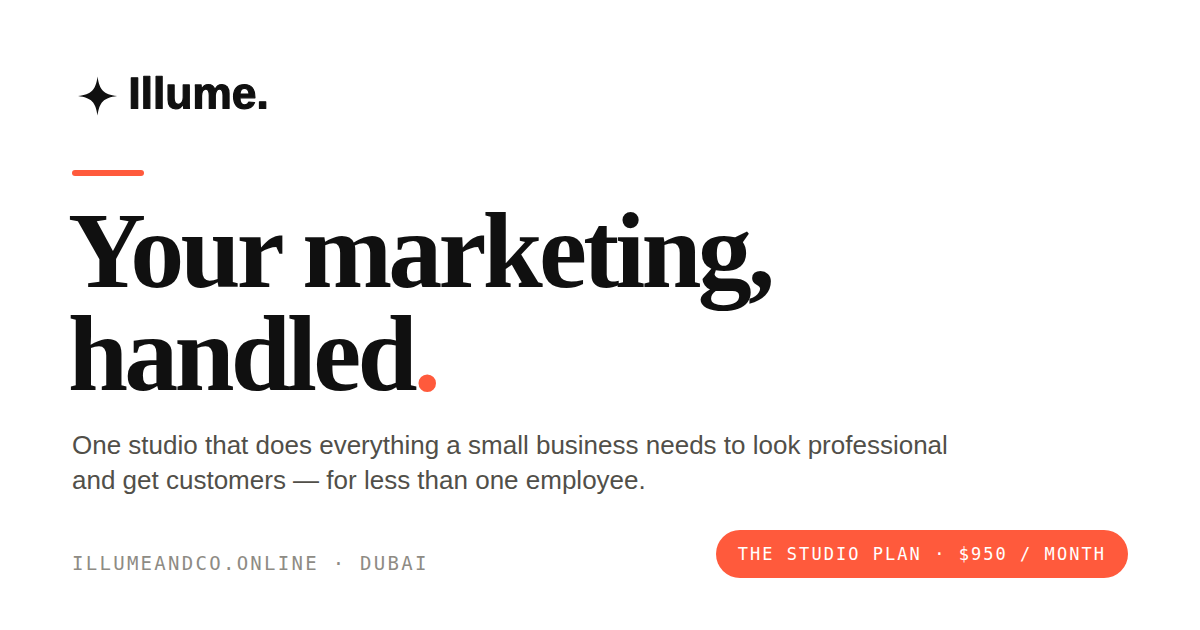
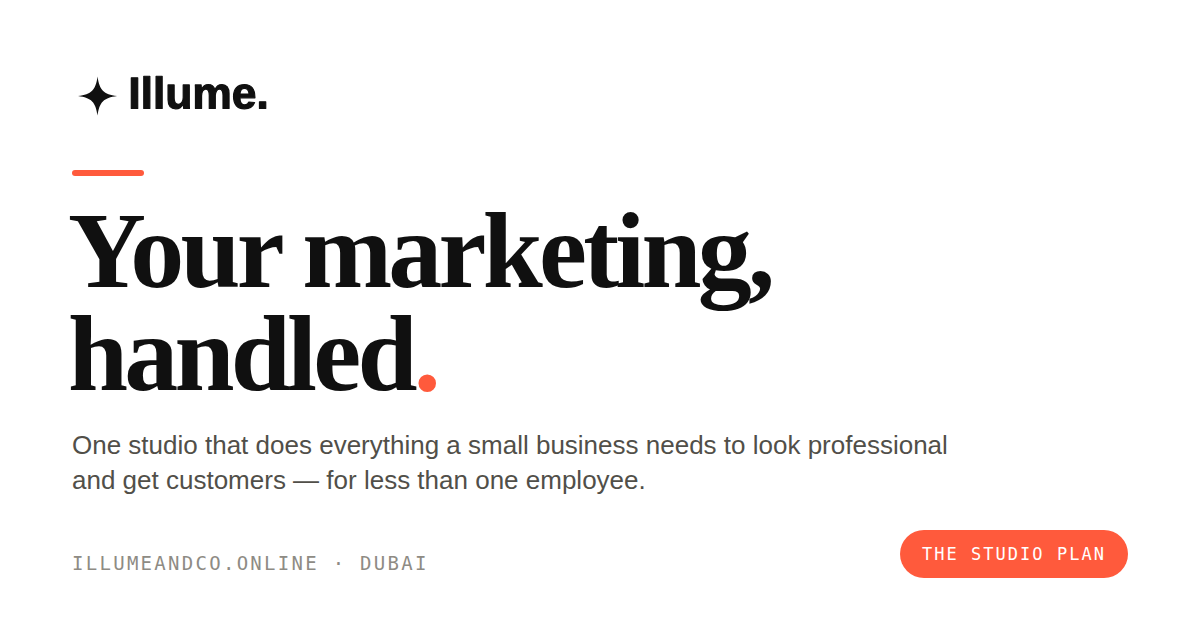
Reframe around the product they deliver; email and Instagram only
Copy on every page now sells studio-quality content built around the
product or service a business delivers, with the phone photos kept as the
proof (transformation pairs and slider) rather than as the promise.

The price appears only where it belongs: the Studio Plan card, the
comparison, and the price FAQ. Removed from the hero, the start page card,
the portfolio CTA, the founder text, and every meta and share description.
Open Graph image regenerated without the price.

Contact is email and Instagram only. Floating WhatsApp button, wa.me links
and the phone number removed from every page and the README.

Claude-Session: https://claude.ai/code/session_01R2BKuQRPJkqNdeGcCEWng2

Changed region(s): [[0.5858, 0.8143, 0.925, 0.9349]]

diff --git a/index.html b/index.html
@@ -5,12 +5,12 @@
 <meta name="viewport" content="width=device-width, initial-scale=1">
 <meta name="color-scheme" content="light">
 <title>Illume — Your marketing, handled. The Studio Plan for small businesses</title>
-<meta name="description" content="One studio that does everything a small business needs to look professional and get customers — content, posting, video, ads, website and direction. $950 a month, month to month. Dubai.">
+<meta name="description" content="One studio that does everything a small business needs to look professional and get customers — studio-quality content built around what you sell, posted for you, plus video, ads, website and direction. Month to month. Dubai.">
 <link rel="canonical" href="https://www.illumeandco.online/">
 <meta property="og:type" content="website">
 <meta property="og:site_name" content="Illume">
 <meta property="og:title" content="Illume — Your marketing, handled.">
-<meta property="og:description" content="Studio-quality content made from what you already have, posted for you, plus video, ads, website and direction. $950 a month, month to month.">
+<meta property="og:description" content="Studio-quality content built around the product or service you deliver, posted for you — plus video, ads, website and direction. One studio, month to month.">
 <meta property="og:url" content="https://www.illumeandco.online/">
 <meta property="og:image" content="https://www.illumeandco.online/og.png">
 <meta property="og:image:width" content="1200">
@@ -18,7 +18,7 @@
 <meta property="og:image:alt" content="Illume — Your marketing, handled.">
 <meta name="twitter:card" content="summary_large_image">
 <meta name="twitter:title" content="Illume — Your marketing, handled.">
-<meta name="twitter:description" content="Studio-quality content made from what you already have, posted for you, plus video, ads, website and direction. $950 a month, month to month.">
+<meta name="twitter:description" content="Studio-quality content built around the product or service you deliver, posted for you — plus video, ads, website and direction. One studio, month to month.">
 <meta name="twitter:image" content="https://www.illumeandco.online/og.png">
 <link rel="icon" href="favicon.ico" sizes="any">
 <link rel="icon" href="favicon.svg" type="image/svg+xml">
@@ -53,17 +53,17 @@
 <section class="hero">
 <span class="eyebrow">Content &amp; marketing studio &middot; Dubai</span>
 <h1 class="giant">Your marketing, handled<span class="dot">.</span></h1>
-<p class="hero-sub">One studio that does everything a small business needs to look professional and get customers — for less than one employee. We take the photos and videos you already have, turn them into studio-quality content, and post it for you.</p>
+<p class="hero-sub">One studio that does everything a small business needs to look professional and get customers — for less than one employee. We take the product or service you deliver every day, turn it into studio-quality content, and post it for you.</p>
 <div class="hero-cta">
 <a class="btn" href="start.html">Start your project</a>
-<p class="hero-meta">$950 / month &middot; month to month<br>Everything we make is yours to keep</p>
+<p class="hero-meta">The Studio Plan &middot; month to month<br>Everything we make is yours to keep</p>
 </div>
 </section>
 
 <section class="sect" id="transformation">
 <div class="sect-head rv">
-<h2>Same content. Studio quality.</h2>
-<p>No shoot to book, no equipment to rent — just what you already have, refined into something people stop scrolling for.</p>
+<h2>Your product. Studio quality.</h2>
+<p>No shoot to book, no equipment to rent — a phone photo of what you sell, refined into something people stop scrolling for.</p>
 </div>
 <div class="pairs stagger">
 <div class="pair">
@@ -87,7 +87,7 @@
 <section class="sect" id="work">
 <div class="sect-head rv">
 <h2>The work speaks for itself.</h2>
-<p>Recent creative — product visuals, social content and a reel — all made from content the business already had.</p>
+<p>Recent creative — product visuals, social content and a reel — built around real products, dishes and services.</p>
 </div>
 <div class="work-row stagger">
 <div class="reel">
@@ -108,11 +108,11 @@
 <div class="plan-card">
 <span class="flag">The Studio Plan</span>
 <h2>One plan. Everything handled.</h2>
-<p class="plan-tag">Studio-quality content made from what you already have, posted for you — plus video, ads, website and direction. One studio, for less than one employee.</p>
+<p class="plan-tag">Studio-quality content built around the product or service you deliver, posted for you — plus video, ads, website and direction. One studio, for less than one employee.</p>
 <div class="price"><span class="fig">$950</span><span class="per">per month &middot; USD</span></div>
 <p class="terms-line">Month to month &middot; cancel anytime with 7 days&rsquo; notice</p>
 <ul class="caps">
-<li><span class="ck"><svg><use href="#i-ck"/></svg></span><span><b>Studio-quality creatives</b> from the content you already have — Instagram pictures, carousels and reels made from your photos, videos, products, menus and before/afters.</span></li>
+<li><span class="ck"><svg><use href="#i-ck"/></svg></span><span><b>Studio-quality creatives</b> for what you sell — Instagram pictures, carousels and reels of your products, dishes, treatments, spaces and results, made from your own phone photos and videos.</span></li>
 <li><span class="ck"><svg><use href="#i-ck"/></svg></span><span><b>We post it for you</b>, on a steady rhythm, so your pages stay active without you lifting a finger.</span></li>
 <li><span class="ck"><svg><use href="#i-ck"/></svg></span><span><b>Captions and a monthly content plan</b> built around your goals.</span></li>
 <li><span class="ck"><svg><use href="#i-ck"/></svg></span><span><b>Promotional videos.</b></span></li>
@@ -260,7 +260,7 @@
 <p>Starting is easy. Three things, and we take it from there.</p>
 </div>
 <div class="steps stagger">
-<div class="step tilt"><span class="num">01</span><h3>The content you already have</h3><p>Photos and videos of your product, space, team or menu. Phone shots are fine — that&rsquo;s the point.</p></div>
+<div class="step tilt"><span class="num">01</span><h3>Photos and videos of what you sell</h3><p>Your product, space, team, menu or results. Phone shots are fine — that&rsquo;s the point.</p></div>
 <div class="step tilt"><span class="num">02</span><h3>Partner access to your pages</h3><p>Access to your Instagram and Facebook pages through Meta Business Suite partner access. We never ask for your password.</p></div>
 <div class="step tilt"><span class="num">03</span><h3>About 30 minutes</h3><p>One kickoff conversation so we understand your business, your customers and your goals.</p></div>
 </div>
@@ -273,9 +273,9 @@
 <p>It starts with a conversation, not a checkout.</p>
 </div>
 <div class="steps five stagger">
-<div class="step tilt"><span class="num">01</span><h3>Reach out</h3><p>Send the form, or message us on WhatsApp.</p></div>
+<div class="step tilt"><span class="num">01</span><h3>Reach out</h3><p>Send the form, or DM us on Instagram.</p></div>
 <div class="step tilt"><span class="num">02</span><h3>A quick call or emails</h3><p>We understand your business and answer your questions.</p></div>
-<div class="step tilt"><span class="num">03</span><h3>We plan your Launch Month</h3><p>Together — around your goals and the content you have.</p></div>
+<div class="step tilt"><span class="num">03</span><h3>We plan your Launch Month</h3><p>Together — around your goals and what you sell.</p></div>
 <div class="step tilt"><span class="num">04</span><h3>Work starts</h3><p>Once month one is paid, we get going.</p></div>
 <div class="step tilt"><span class="num">05</span><h3>First creatives land</h3><p>In your inbox — and on your pages.</p></div>
 </div>
@@ -287,7 +287,7 @@
 </div>
 <div class="founder rv">
 <p><b>Illume is the two of us.</b> We started the studio after seeing how many genuinely good small businesses were represented online by nothing more than a quick phone photo, because a proper shoot cost more than a week&rsquo;s sales.</p>
-<p>We lead every project personally, with AI-assisted production. That&rsquo;s why it&rsquo;s $950 and not $3,000 — and why you&rsquo;ll always be talking to us, not an account manager.</p>
+<p>We lead every project personally, with AI-assisted production. That&rsquo;s why the Studio Plan costs a fraction of an agency or a hire — and why you&rsquo;ll always be talking to us, not an account manager.</p>
 </div>
 </section>
 
@@ -298,7 +298,7 @@
 <div class="faq rv">
 <details>
 <summary>What&rsquo;s included in the Studio Plan?</summary>
-<div class="faq-body"><p>Studio-quality Instagram pictures, carousels and reels made from the content you already have, posted for you on a steady rhythm, with captions and a monthly content plan built around your goals. Plus promotional videos, ready-to-run ads, your website built or fixed from month two, and ongoing direction — we plan each month together. The scope flexes to what your business needs that month.</p></div>
+<div class="faq-body"><p>Studio-quality Instagram pictures, carousels and reels built around the product or service you deliver, made from your own photos and videos and posted for you on a steady rhythm, with captions and a monthly content plan built around your goals. Plus promotional videos, ready-to-run ads, your website built or fixed from month two, and ongoing direction — we plan each month together. The scope flexes to what your business needs that month.</p></div>
 </details>
 <details>
 <summary>What happens in month one?</summary>
@@ -334,7 +334,7 @@
 </details>
 <details>
 <summary>What do I need to send?</summary>
-<div class="faq-body"><p>The photos and videos you already have, even phone shots; partner access to your Instagram and Facebook pages through Meta Business Suite (never your password); and about 30 minutes for a kickoff conversation.</p></div>
+<div class="faq-body"><p>Photos and videos of your product, space or service, even phone shots; partner access to your Instagram and Facebook pages through Meta Business Suite (never your password); and about 30 minutes for a kickoff conversation.</p></div>
 </details>
 </div>
 </section>
@@ -343,7 +343,7 @@
 <h2>Ready to have your marketing handled?</h2>
 <p>Tell us about your business — we&rsquo;ll reply personally and plan your Launch Month together.</p>
 <a class="btn btn-accent" href="start.html">Start your project</a>
-<p class="alt">Prefer to chat? <a href="https://wa.me/971555045014?text=Hi%20Illume%2C%20I%27d%20like%20to%20know%20more%20about%20the%20Studio%20Plan" target="_blank" rel="noopener">Message us on WhatsApp</a></p>
+<p class="alt">Prefer to message? <a href="https://www.instagram.com/illumeandco" target="_blank" rel="noopener">DM us on Instagram</a></p>
 </section>
 
 </main>
@@ -356,7 +356,6 @@
 <span class="lbl">Contact</span>
 <ul>
 <li><a href="mailto:illumeandco.online@gmail.com">illumeandco.online@gmail.com</a></li>
-<li><a href="https://wa.me/971555045014?text=Hi%20Illume%2C%20I%27d%20like%20to%20know%20more%20about%20the%20Studio%20Plan" target="_blank" rel="noopener">WhatsApp +971 55 504 5014</a></li>
 <li><a href="https://www.instagram.com/illumeandco" target="_blank" rel="noopener">Instagram @illumeandco</a></li>
 </ul>
 </div>
@@ -368,10 +367,6 @@
 </footer>
 </div>
 
-<a class="wa" href="https://wa.me/971555045014?text=Hi%20Illume%2C%20I%27d%20like%20to%20know%20more%20about%20the%20Studio%20Plan" target="_blank" rel="noopener" aria-label="Message us on WhatsApp">
-<svg viewBox="0 0 24 24" aria-hidden="true"><path fill="#25D366" d="M12 2a10 10 0 0 0-8.6 15.1L2 22l5-1.3A10 10 0 1 0 12 2z"/><path fill="#fff" d="M16.6 13.9c-.2-.1-1.5-.7-1.7-.8-.2-.1-.4-.1-.6.1l-.8 1c-.1.2-.3.2-.5.1-.7-.3-1.4-.7-2-1.3-.5-.5-1-1.1-1.3-1.7-.1-.2 0-.4.1-.5l.4-.5c.2-.2.2-.4.1-.6l-.7-1.6c-.2-.4-.4-.4-.6-.4h-.5c-.2 0-.5.1-.7.3-.6.6-.9 1.3-.9 2.1.1.9.4 1.8 1 2.6 1.1 1.6 2.5 2.9 4.2 3.7.5.2 1 .4 1.5.5.5.1 1 .1 1.5 0 .7-.2 1.3-.7 1.6-1.4.1-.3.2-.7.1-1-.1-.2-.2-.3-.4-.4z"/></svg>
-<span>Message us on WhatsApp</span>
-</a>
 <script src="ind.js" defer></script>
 <script defer src="/_vercel/insights/script.js"></script>
 </body>

diff --git a/start.html b/start.html
@@ -31,12 +31,12 @@
 .side h1{font-family:var(--display);font-weight:900;letter-spacing:-.025em;font-size:clamp(32px,4.4vw,54px);line-height:1}
 .side p{margin-top:18px;font-size:16.5px;color:var(--ink-soft);max-width:42ch}
 .price-card{background:var(--panel);border-radius:var(--r);padding:32px 30px;margin-top:32px}
-.price-card .fig{font-family:var(--display);font-weight:900;font-size:44px;letter-spacing:-.03em;color:var(--accent-deep);display:block;line-height:1}
-.price-card .unit{font-family:var(--mono);font-size:11px;letter-spacing:.09em;text-transform:uppercase;color:var(--muted);display:block;margin-top:8px;line-height:1.7}
+.price-card .unit{font-family:var(--mono);font-size:11px;letter-spacing:.09em;text-transform:uppercase;color:var(--muted);display:block;line-height:1.7}
 .price-card ul{list-style:none;margin-top:22px;display:grid;gap:11px}
 .price-card li{display:flex;gap:11px;font-size:15px;color:var(--ink-soft);line-height:1.45}
 .price-card li::before{content:"";flex:0 0 6px;height:6px;margin-top:8px;border-radius:50%;background:var(--accent)}
 .fx-note{margin-top:18px;font-size:12.5px;color:var(--muted);line-height:1.5}
+.fx-note a{color:var(--ink)}
 .form-card{background:var(--panel);border-radius:var(--r);padding:44px}
 .form-card > h2{font-family:var(--display);font-weight:800;font-size:24px;letter-spacing:-.015em;margin-bottom:8px}
 .form-card > .lead{font-size:15px;color:var(--ink-soft);margin-bottom:26px;max-width:52ch}
@@ -72,16 +72,15 @@
 <p>Everything starts with understanding your brand — what you make, who it&rsquo;s for, and where you want to grow. Fill out the form and we&rsquo;ll reply personally to plan your Launch Month together.</p>
 <div class="price-card">
 <span class="flag">The Studio Plan</span>
-<span class="fig">$950</span>
-<span class="unit">per month &middot; USD &middot; month to month<br>cancel anytime with 7 days&rsquo; notice</span>
+<span class="unit">Month to month &middot; cancel anytime with 7 days&rsquo; notice</span>
 <ul>
-<li>Studio-quality Instagram pictures, carousels and reels made from the content you already have</li>
+<li>Studio-quality Instagram pictures, carousels and reels built around what you sell, made from your own photos and videos</li>
 <li>Posted for you, on a steady rhythm, with captions and a monthly content plan</li>
 <li>Promotional videos and ready-to-run ads</li>
 <li>Your website built or fixed, from month two</li>
 <li>Ongoing direction — we plan each month together</li>
 </ul>
-<p class="fx-note">$950 is our founding rate; it will rise as we grow. Invoiced at the start of each month; work begins once the month is paid. Everything we make is yours to keep.</p>
+<p class="fx-note">Invoiced at the start of each month; work begins once the month is paid. Everything we make is yours to keep. Full details are on the <a href="index.html#plan">home page</a>.</p>
 </div>
 </div>
 <div class="form-card">
@@ -105,7 +104,7 @@
 <div class="field"><label for="gap">What's not working?</label><textarea id="gap" name="What's not working" placeholder="e.g. no brand identity, inconsistent posting, no marketing content"></textarea></div>
 <div class="field"><label for="other">Anything else we should know?</label><textarea id="other" name="Anything else"></textarea></div>
 <button type="submit" class="submit-btn">Send this to Illume</button>
-<p class="form-foot">This sends straight to our studio inbox — no email app needed.<br>Prefer email? <a href="mailto:illumeandco.online@gmail.com">illumeandco.online@gmail.com</a> &middot; Prefer WhatsApp? <a href="https://wa.me/971555045014?text=Hi%20Illume%2C%20I%27d%20like%20to%20know%20more%20about%20the%20Studio%20Plan" target="_blank" rel="noopener">Message us</a></p>
+<p class="form-foot">This sends straight to our studio inbox — no email app needed.<br>Prefer email? <a href="mailto:illumeandco.online@gmail.com">illumeandco.online@gmail.com</a> &middot; Prefer Instagram? <a href="https://www.instagram.com/illumeandco" target="_blank" rel="noopener">DM us</a></p>
 </form>
 </div>
 </section>
@@ -119,7 +118,6 @@
 <span class="lbl">Contact</span>
 <ul>
 <li><a href="mailto:illumeandco.online@gmail.com">illumeandco.online@gmail.com</a></li>
-<li><a href="https://wa.me/971555045014?text=Hi%20Illume%2C%20I%27d%20like%20to%20know%20more%20about%20the%20Studio%20Plan" target="_blank" rel="noopener">WhatsApp +971 55 504 5014</a></li>
 <li><a href="https://www.instagram.com/illumeandco" target="_blank" rel="noopener">Instagram @illumeandco</a></li>
 </ul>
 </div>
@@ -130,10 +128,6 @@
 </div>
 </footer>
 </div>
-<a class="wa" href="https://wa.me/971555045014?text=Hi%20Illume%2C%20I%27d%20like%20to%20know%20more%20about%20the%20Studio%20Plan" target="_blank" rel="noopener" aria-label="Message us on WhatsApp">
-<svg viewBox="0 0 24 24" aria-hidden="true"><path fill="#25D366" d="M12 2a10 10 0 0 0-8.6 15.1L2 22l5-1.3A10 10 0 1 0 12 2z"/><path fill="#fff" d="M16.6 13.9c-.2-.1-1.5-.7-1.7-.8-.2-.1-.4-.1-.6.1l-.8 1c-.1.2-.3.2-.5.1-.7-.3-1.4-.7-2-1.3-.5-.5-1-1.1-1.3-1.7-.1-.2 0-.4.1-.5l.4-.5c.2-.2.2-.4.1-.6l-.7-1.6c-.2-.4-.4-.4-.6-.4h-.5c-.2 0-.5.1-.7.3-.6.6-.9 1.3-.9 2.1.1.9.4 1.8 1 2.6 1.1 1.6 2.5 2.9 4.2 3.7.5.2 1 .4 1.5.5.5.1 1 .1 1.5 0 .7-.2 1.3-.7 1.6-1.4.1-.3.2-.7.1-1-.1-.2-.2-.3-.4-.4z"/></svg>
-<span>Message us on WhatsApp</span>
-</a>
 <script src="ind.js" defer></script>
 <script defer src="/_vercel/insights/script.js"></script>
 </body>

diff --git a/portfolio.html b/portfolio.html
@@ -5,12 +5,12 @@
 <meta name="viewport" content="width=device-width, initial-scale=1">
 <meta name="color-scheme" content="light">
 <title>Illume — Our Work</title>
-<meta name="description" content="What you already have, reimagined. Illume's portfolio of studio-quality marketing content made from the photos small businesses already had.">
+<meta name="description" content="Illume's portfolio: studio-quality marketing content built around the products and services small businesses deliver, made from their own phone photos.">
 <link rel="canonical" href="https://www.illumeandco.online/portfolio.html">
 <meta property="og:type" content="website">
 <meta property="og:site_name" content="Illume">
 <meta property="og:title" content="Illume — Our Work">
-<meta property="og:description" content="What you already have, reimagined. Studio-quality marketing content made from the photos small businesses already had.">
+<meta property="og:description" content="Studio-quality marketing content built around the products and services small businesses deliver — made from their own phone photos.">
 <meta property="og:url" content="https://www.illumeandco.online/portfolio.html">
 <meta property="og:image" content="https://www.illumeandco.online/og.png">
 <meta property="og:image:width" content="1200">
@@ -64,8 +64,8 @@
 
 <section class="intro">
 <span class="eyebrow">Our Work</span>
-<h1>What you already have. Reimagined.</h1>
-<p>Illume takes the content a business already has and gives it a studio-produced finish. Here&rsquo;s a look at the work.</p>
+<h1>Your product. Reimagined.</h1>
+<p>Illume takes the product or service a business delivers and gives it a studio-produced finish — starting from nothing more than a phone photo. Here&rsquo;s a look at the work.</p>
 </section>
 
 <section class="transform-feat">
@@ -126,7 +126,7 @@
 
 <section class="closing port-cta rv">
 <h2>Want this for your business?</h2>
-<p>The Studio Plan: studio-quality content made from what you already have, posted for you — plus video, ads, website and direction. $950 a month, month to month.</p>
+<p>The Studio Plan: studio-quality content built around what you sell, posted for you — plus video, ads, website and direction. One studio, month to month.</p>
 <a class="btn btn-accent" href="start.html">Start your project</a>
 <p class="alt"><a href="index.html#plan">See the Studio Plan &rarr;</a></p>
 </section>
@@ -141,7 +141,6 @@
 <span class="lbl">Contact</span>
 <ul>
 <li><a href="mailto:illumeandco.online@gmail.com">illumeandco.online@gmail.com</a></li>
-<li><a href="https://wa.me/971555045014?text=Hi%20Illume%2C%20I%27d%20like%20to%20know%20more%20about%20the%20Studio%20Plan" target="_blank" rel="noopener">WhatsApp +971 55 504 5014</a></li>
 <li><a href="https://www.instagram.com/illumeandco" target="_blank" rel="noopener">Instagram @illumeandco</a></li>
 </ul>
 </div>
@@ -152,10 +151,6 @@
 </div>
 </footer>
 </div>
-<a class="wa" href="https://wa.me/971555045014?text=Hi%20Illume%2C%20I%27d%20like%20to%20know%20more%20about%20the%20Studio%20Plan" target="_blank" rel="noopener" aria-label="Message us on WhatsApp">
-<svg viewBox="0 0 24 24" aria-hidden="true"><path fill="#25D366" d="M12 2a10 10 0 0 0-8.6 15.1L2 22l5-1.3A10 10 0 1 0 12 2z"/><path fill="#fff" d="M16.6 13.9c-.2-.1-1.5-.7-1.7-.8-.2-.1-.4-.1-.6.1l-.8 1c-.1.2-.3.2-.5.1-.7-.3-1.4-.7-2-1.3-.5-.5-1-1.1-1.3-1.7-.1-.2 0-.4.1-.5l.4-.5c.2-.2.2-.4.1-.6l-.7-1.6c-.2-.4-.4-.4-.6-.4h-.5c-.2 0-.5.1-.7.3-.6.6-.9 1.3-.9 2.1.1.9.4 1.8 1 2.6 1.1 1.6 2.5 2.9 4.2 3.7.5.2 1 .4 1.5.5.5.1 1 .1 1.5 0 .7-.2 1.3-.7 1.6-1.4.1-.3.2-.7.1-1-.1-.2-.2-.3-.4-.4z"/></svg>
-<span>Message us on WhatsApp</span>
-</a>
 <script src="ind.js" defer></script>
 <script defer src="/_vercel/insights/script.js"></script>
 </body>

diff --git a/ind.css b/ind.css
@@ -28,7 +28,7 @@ strong,b{font-weight:600}
 .btn{display:inline-block;font-family:var(--display);font-weight:600;font-size:14.5px;text-decoration:none;padding:14px 26px;border-radius:100px;background:var(--ink);color:var(--paper);border:none;cursor:pointer;transition:background .2s ease,transform .18s ease,box-shadow .2s ease}
 .btn:hover{background:var(--accent);transform:translateY(-2px);box-shadow:0 8px 20px -8px rgba(255,90,60,.6)}
 .btn:active{transform:translateY(1px) scale(.97);box-shadow:none}
-.btn:focus-visible,.text-link:focus-visible,.wa:focus-visible{outline:3px solid var(--accent);outline-offset:3px}
+.btn:focus-visible,.text-link:focus-visible{outline:3px solid var(--accent);outline-offset:3px}
 .btn-accent{background:var(--accent-deep)}
 .btn-accent:hover{background:#A93010}
 .btn-outline{background:transparent;color:var(--ink);border:1.5px solid var(--ink)}
@@ -208,7 +208,7 @@ strong,b{font-weight:600}
 .closing .alt a{color:var(--ink)}
 
 /* Footer */
-footer.foot{margin-top:60px;padding:34px 0 110px;border-top:1px solid var(--rule);display:grid;grid-template-columns:1.2fr 1fr 1.2fr;gap:28px;font-size:14px;color:var(--ink-soft)}
+footer.foot{margin-top:60px;padding:34px 0 60px;border-top:1px solid var(--rule);display:grid;grid-template-columns:1.2fr 1fr 1.2fr;gap:28px;font-size:14px;color:var(--ink-soft)}
 footer.foot .brand{font-family:var(--display);font-weight:700;font-size:20px;color:var(--ink);display:block;margin-bottom:8px;text-decoration:none}
 footer.foot ul{list-style:none;display:grid;gap:8px}
 footer.foot a{text-decoration:none}
@@ -216,11 +216,6 @@ footer.foot a:hover{color:var(--ink)}
 footer.foot .lbl{font-family:var(--mono);font-size:10.5px;letter-spacing:.12em;text-transform:uppercase;color:var(--muted);display:block;margin-bottom:10px}
 footer.foot .fine{font-size:13px;color:var(--muted);line-height:1.55}
 
-/* Floating WhatsApp */
-.wa{position:fixed;right:18px;bottom:18px;z-index:80;display:flex;align-items:center;gap:9px;background:#fff;color:var(--ink);border:1px solid var(--rule);border-radius:100px;padding:11px 16px 11px 12px;font-size:13.5px;font-weight:500;text-decoration:none;box-shadow:0 12px 30px -14px rgba(16,16,16,.4);transition:transform .2s ease,box-shadow .2s ease}
-.wa svg{width:22px;height:22px;flex:0 0 22px}
-.wa:hover{transform:translateY(-2px);box-shadow:0 16px 34px -14px rgba(16,16,16,.45)}
-.wa:active{transform:translateY(0) scale(.97)}
 
 /* ---------- Responsive ---------- */
 @media (max-width:1000px){
@@ -264,9 +259,7 @@ footer.foot .fine{font-size:13px;color:var(--muted);line-height:1.55}
   .tl{grid-template-columns:36px 1fr;gap:16px}
   .tl .dot{width:36px;height:36px;font-size:10px}
   .tl::before{left:17px}
-  .wa span{display:none}
-  .wa{padding:12px;right:14px;bottom:14px}
-  footer.foot{grid-template-columns:1fr;gap:22px;padding-bottom:96px}
+  footer.foot{grid-template-columns:1fr;gap:22px}
   .masthead{gap:14px;padding:20px 0}
   .logo-link img{height:30px}
   .nav{gap:18px;font-size:14px}

diff --git a/thanks.html b/thanks.html
@@ -54,7 +54,7 @@
 <a class="btn btn-accent" href="index.html">Back to home</a>
 <a class="btn btn-outline" href="portfolio.html">See the work</a>
 </div>
-<p class="thanks-note">Illume &middot; <a href="mailto:illumeandco.online@gmail.com">illumeandco.online@gmail.com</a> &middot; <a href="https://wa.me/971555045014?text=Hi%20Illume%2C%20I%27d%20like%20to%20know%20more%20about%20the%20Studio%20Plan" target="_blank" rel="noopener">WhatsApp</a></p>
+<p class="thanks-note">Illume &middot; <a href="mailto:illumeandco.online@gmail.com">illumeandco.online@gmail.com</a> &middot; <a href="https://www.instagram.com/illumeandco" target="_blank" rel="noopener">Instagram @illumeandco</a></p>
 </div>
 </main>
 <script defer src="/_vercel/insights/script.js"></script>

diff --git a/README.md b/README.md
@@ -9,7 +9,7 @@ framework, no dependencies. Open `index.html` in a browser and it works.
 
 | File | What it is |
 |---|---|
-| `index.html` | Home — hero, transformation, work teaser with the reel, the Studio Plan, Launch Month, sample month, comparison, who it's for, what we need, what happens next, the two of us, FAQ, CTA |
+| `index.html` | Home — hero, transformation (phone photo → studio creative), work teaser with the reel, the Studio Plan, Launch Month, sample month, comparison, who it's for, what we need, what happens next, the two of us, FAQ, CTA |
 | `portfolio.html` | Full portfolio grid |
 | `start.html` | Enquiry form ("Start your project") — applying for the Studio Plan |
 | `thanks.html` | Confirmation page the form redirects to after submitting |
@@ -46,7 +46,7 @@ python3 build.py /tmp/one-file.html  # also writes a single-file copy with image
 
 | File | What it is |
 |---|---|
-| `ind.css` | All shared styling — tokens, fonts, type, buttons, footer, WhatsApp button, homepage sections |
+| `ind.css` | All shared styling — tokens, fonts, type, buttons, footer, homepage sections |
 | `ind.js` | Scroll reveal, before/after slider, comparison count-up, desktop card tilt, reel autoplay |
 | `logo.svg` | The Illume wordmark used in every header |
 | `fonts/` | Self-hosted, latin-subset woff2 files for Fraunces, DM Sans and DM Mono |
@@ -90,8 +90,10 @@ If the studio email address ever changes, it has to be updated in two places in
 
 ## Contact links
 
-WhatsApp: `https://wa.me/971555045014` with a prefilled message. Instagram:
-`https://www.instagram.com/illumeandco` — the only social account, don't add others.
+Contact is email (`illumeandco.online@gmail.com`) and Instagram
+(`https://www.instagram.com/illumeandco`) only. No phone number or WhatsApp anywhere on the
+site — don't add one. The price appears only in the Studio Plan card, the comparison and the
+price FAQ on the home page.
 
 ## Analytics
 
